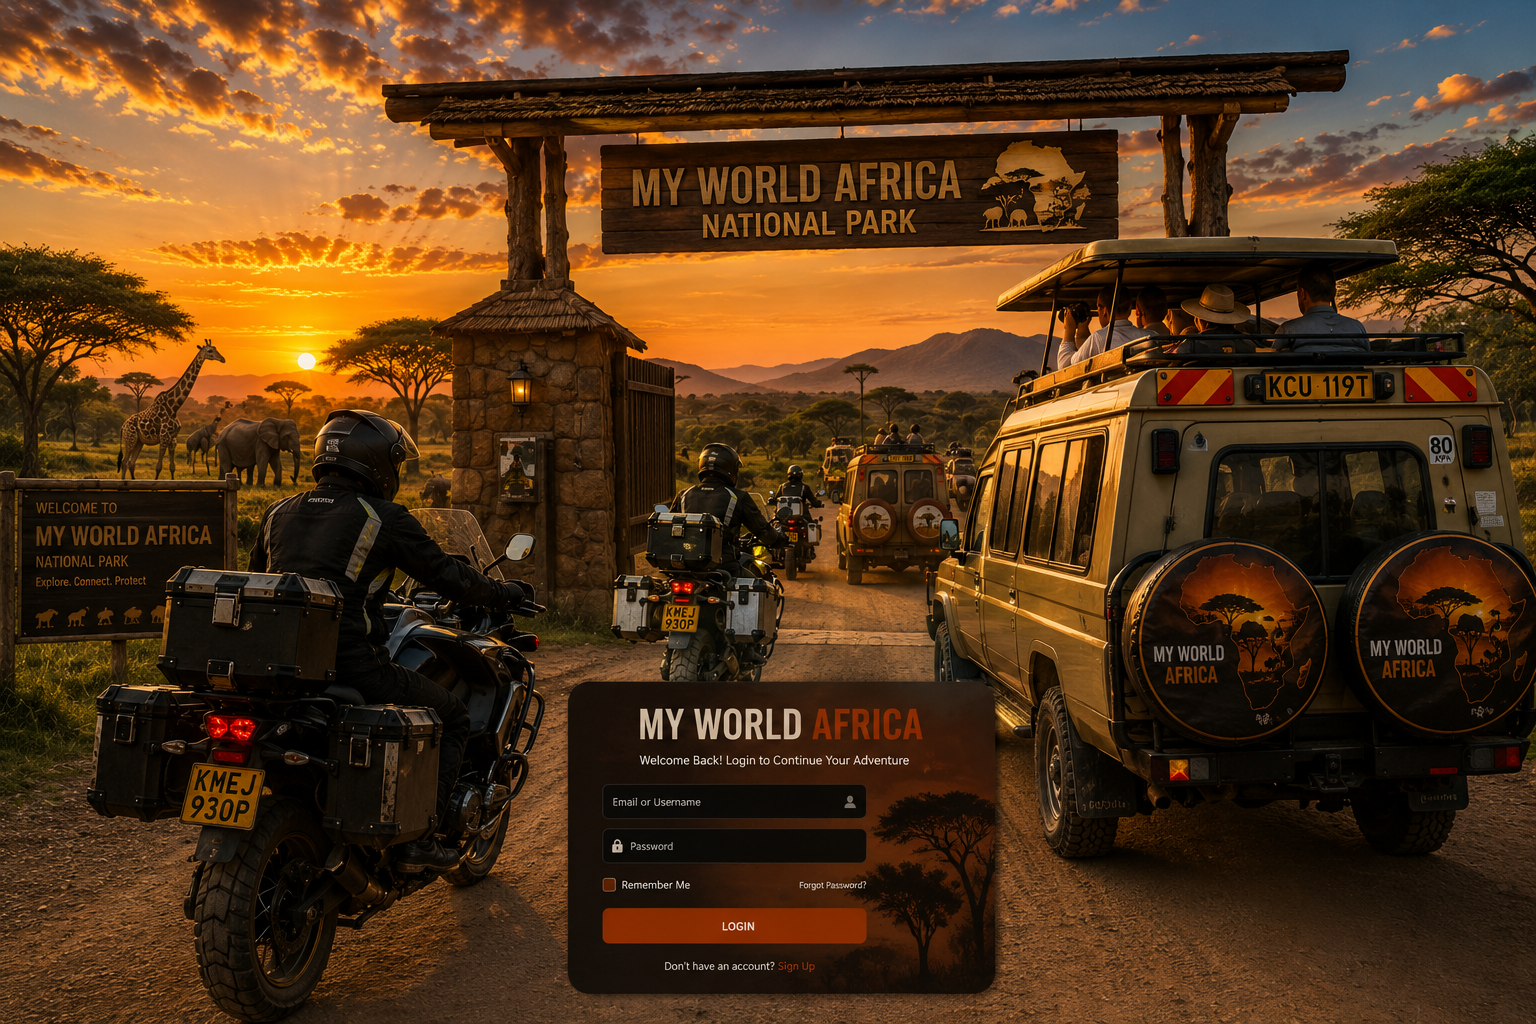
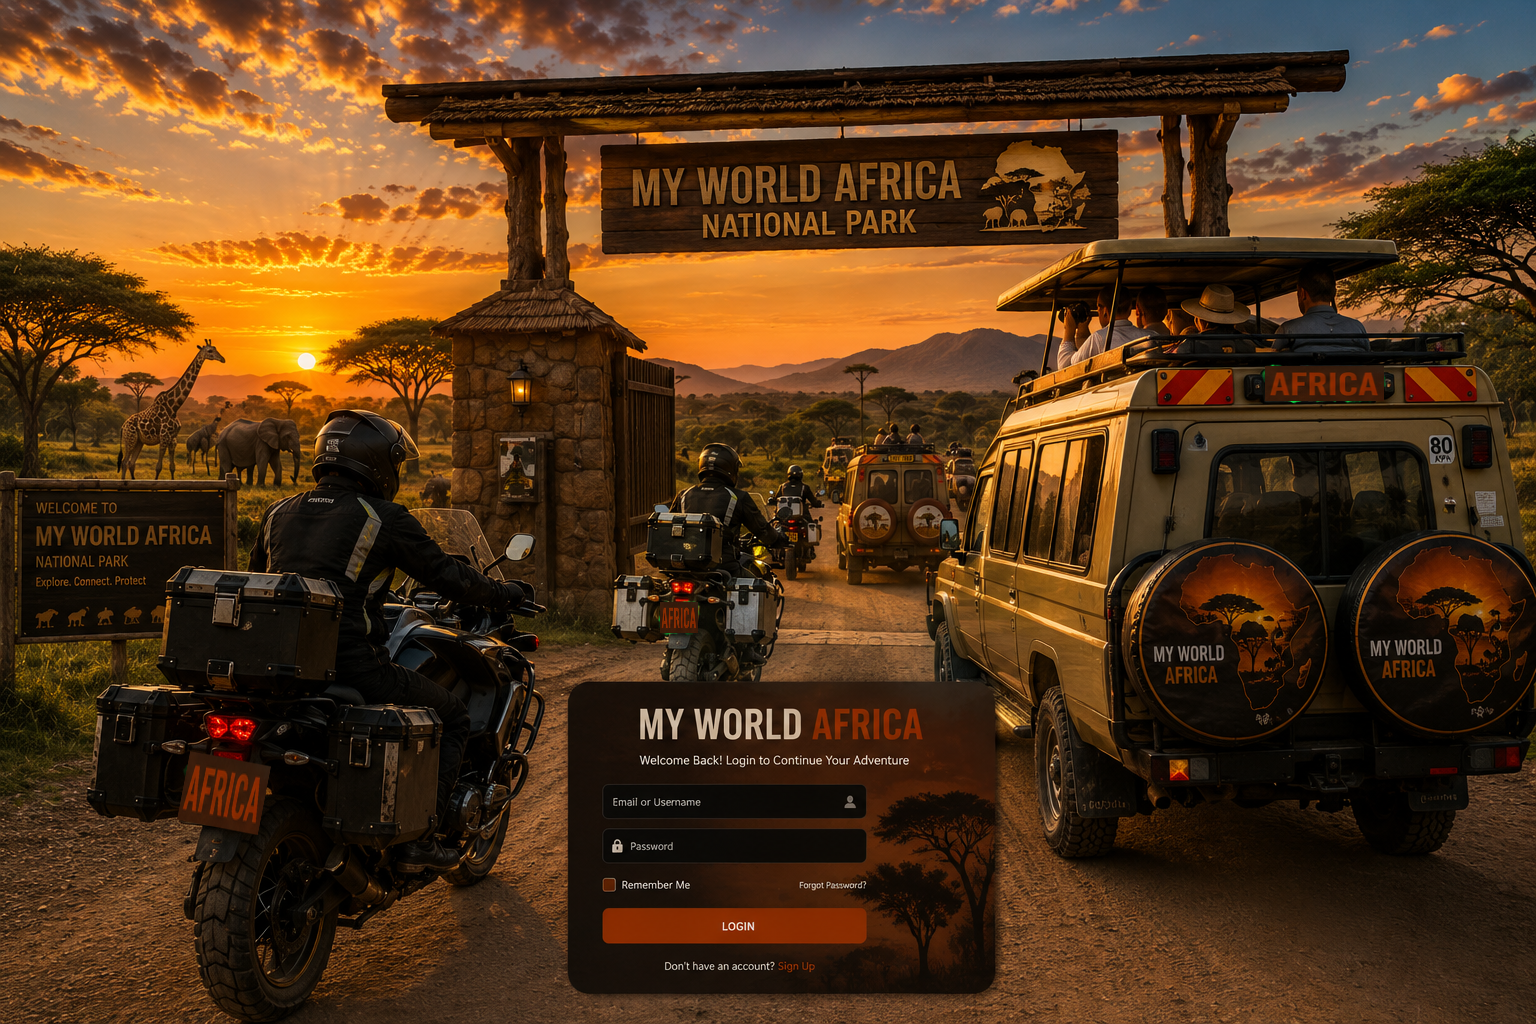
Upgrade: The Africa

Changed region(s): [[0.0938, 0.7188, 0.1875, 0.8125], [0.8125, 0.3438, 0.9062, 0.4062], [0.4062, 0.5938, 0.4688, 0.625]]

diff --git a/src/routes/index.tsx b/src/routes/index.tsx
@@ -62,15 +62,15 @@ function Landing() {
           </div>
 
           <div className="w-full max-w-5xl flex flex-col items-center text-center">
-            {/* BRANDING LOGO BLOCK */}
-            <div className="flex items-center justify-center gap-4 sm:gap-8 mb-12 transform hover:scale-105 transition-transform duration-500">
+            {/* BRANDING LOGO BLOCK - Improved responsiveness */}
+            <div className="flex flex-col sm:flex-row items-center justify-center gap-6 sm:gap-8 mb-10 sm:mb-14 transform hover:scale-105 transition-transform duration-500 w-full px-4">
               <img
                 src="/a (2).png"
                 alt="My World Africa Logo"
-                className="h-28 sm:h-44 md:h-60 lg:h-72 w-auto object-contain drop-shadow-2xl"
+                className="h-32 sm:h-44 md:h-60 lg:h-72 w-auto object-contain drop-shadow-2xl"
               />
-              <div className="w-1.5 sm:w-2 h-28 sm:h-44 md:h-60 lg:h-72 bg-accent rounded-full shadow-glow" />
-              <div className="flex flex-col items-start font-sans font-black leading-[0.85] text-4xl sm:text-6xl md:text-8xl lg:text-9xl tracking-tighter uppercase drop-shadow-2xl">
+              <div className="hidden sm:block w-1.5 sm:w-2 h-28 sm:h-44 md:h-60 lg:h-72 bg-accent rounded-full shadow-glow" />
+              <div className="flex flex-col items-center sm:items-start font-sans font-black leading-[0.85] text-4xl sm:text-6xl md:text-8xl lg:text-9xl tracking-tighter uppercase drop-shadow-2xl">
                 <div className="text-white">MY WORLD</div>
                 <div className="text-accent mt-2 sm:mt-4">AFRICA</div>
               </div>
@@ -81,11 +81,11 @@ function Landing() {
               From Cape to Cairo — 54 countries, one community
             </div>
 
-            <h1 className="font-display text-white text-3xl sm:text-5xl md:text-6xl font-bold leading-[1.1] max-w-3xl drop-shadow-2xl">
+            <h1 className="font-display text-white text-2xl sm:text-5xl md:text-6xl font-bold leading-[1.1] max-w-3xl drop-shadow-2xl px-2">
               Ride the road. <span className="text-gradient-warm">Own the story.</span>
             </h1>
 
-            <p className="mt-6 text-base sm:text-lg md:text-xl text-white/95 max-w-2xl leading-relaxed drop-shadow-lg font-medium">
+            <p className="mt-4 sm:mt-6 text-sm sm:text-lg md:text-xl text-white/95 max-w-2xl leading-relaxed drop-shadow-lg font-medium px-4">
               MyWorldAfrica is where African explorers, riders and drivers meet. Post
               shorts and vlogs from your journey, host meetups anywhere on the
               continent.
@@ -104,7 +104,7 @@ function Landing() {
               </Link>
             </div>
 
-            <div className="mt-12 sm:mt-16 grid grid-cols-2 sm:grid-cols-3 gap-8 sm:gap-12 w-full max-w-2xl justify-center">
+            <div className="mt-12 sm:mt-16 grid grid-cols-2 sm:grid-cols-3 gap-6 sm:gap-12 w-full max-w-2xl justify-center px-4">
               <Stat n="12K+" l="Explorers" />
               <Stat n="540+" l="Events hosted" />
               <Stat n="38" l="Countries" className="col-span-2 sm:col-span-1" />
@@ -114,21 +114,32 @@ function Landing() {
       </section>
 
       {/* TRIBES */}
-      <section className="mx-auto max-w-7xl px-6 py-24">
-        <div className="text-center max-w-2xl mx-auto mb-14">
-          <div className="text-xs uppercase tracking-[0.3em] text-primary font-semibold mb-3">
-            Three tribes · One road
-          </div>
-          <h2 className="text-4xl md:text-5xl font-bold">Find your people</h2>
-          <p className="mt-4 text-muted-foreground">
-            Whether you burn fuel on two wheels, four wheels, or two feet — there's a
-            tribe waiting on the other side of the horizon.
-          </p>
+      <section className="relative overflow-hidden py-24">
+        {/* Subtle Background Image - Increased visibility */}
+        <div className="absolute inset-0 opacity-20 pointer-events-none">
+          <img
+            src="/all.png"
+            alt="Background"
+            className="w-full h-full object-cover"
+          />
         </div>
-        <div className="grid gap-6 md:grid-cols-3">
-          <Tribe img={ridersImg} tag="Riders" title="Two wheels, endless dust" desc="From Honda Ace 125s to KTM Adventures — join weekend runs and cross-border rallies." />
-          <Tribe img={driversImg} tag="Drivers" title="Four wheels, open dunes" desc="4x4 convoys, offroad meets, and long-haul road trips across the continent." />
-          <Tribe img={explorersImg} tag="Explorers" title="Culture, food, stories" desc="Trekkers, foodies, photographers — the people who chase experiences." />
+
+        <div className="relative z-10 mx-auto max-w-7xl px-6">
+          <div className="text-center max-w-2xl mx-auto mb-14">
+            <div className="text-xs uppercase tracking-[0.3em] text-primary font-bold mb-3">
+              Three tribes · One road
+            </div>
+            <h2 className="text-4xl md:text-5xl font-bold">Find your people</h2>
+            <p className="mt-4 text-muted-foreground font-medium">
+              Whether you burn fuel on two wheels, four wheels, or two feet — there's a
+              tribe waiting on the other side of the horizon.
+            </p>
+          </div>
+          <div className="grid gap-6 md:grid-cols-3">
+            <Tribe img={ridersImg} tag="Riders" title="Two wheels, endless dust" desc="From Honda Ace 125s to KTM Adventures — join weekend runs and cross-border rallies." />
+            <Tribe img={driversImg} tag="Drivers" title="Four wheels, open dunes" desc="4x4 convoys, offroad meets, and long-haul road trips across the continent." />
+            <Tribe img={explorersImg} tag="Explorers" title="Culture, food, stories" desc="Trekkers, foodies, photographers — the people who chase experiences." />
+          </div>
         </div>
       </section>
 

diff --git a/src/components/SiteNav.tsx b/src/components/SiteNav.tsx
@@ -21,28 +21,28 @@ export function SiteNav() {
     <>
       <Link
         to="/"
-        className="flex items-center gap-2 hover:text-accent transition-colors"
+        className="hover:text-accent transition-colors"
         onClick={() => setIsMenuOpen(false)}
       >
-        <Home className="h-4 w-4 md:hidden" /> Home
+        Home
       </Link>
       <Link
         to="/feed"
-        className="flex items-center gap-2 hover:text-accent transition-colors"
+        className="hover:text-accent transition-colors"
         onClick={() => setIsMenuOpen(false)}
       >
         Feed
       </Link>
       <Link
         to="/events"
-        className="flex items-center gap-2 hover:text-accent transition-colors"
+        className="hover:text-accent transition-colors"
         onClick={() => setIsMenuOpen(false)}
       >
         Events
       </Link>
       <Link
         to="/events/create"
-        className="flex items-center gap-2 hover:text-accent transition-colors"
+        className="hover:text-accent transition-colors"
         onClick={() => setIsMenuOpen(false)}
       >
         Host
@@ -117,42 +117,57 @@ export function SiteNav() {
         </div>
       </div>
 
-      {/* MOBILE MENU FLOATING TILE */}
+      {/* MOBILE MENU FLOATING TILE - Centered perfectly */}
       {isMenuOpen && (
         <div
-          className="fixed inset-0 z-50 flex items-center justify-center p-6 bg-black/60 backdrop-blur-sm animate-in fade-in duration-300"
+          className="fixed inset-0 h-[100dvh] w-screen z-[100] flex items-center justify-center p-6 bg-black/80 backdrop-blur-md animate-in fade-in duration-300"
           onClick={() => setIsMenuOpen(false)}
         >
           <div
-            className="w-full max-w-xs bg-background border border-border shadow-2xl rounded-3xl p-8 flex flex-col items-center gap-6 animate-in zoom-in-95 duration-300"
+            className="relative w-full max-w-[320px] overflow-hidden border border-white/20 animate-rainbow-glow rounded-none p-10 flex flex-col items-center gap-8 animate-in zoom-in-95 duration-300 shadow-2xl"
             onClick={(e) => e.stopPropagation()}
           >
-            <div className="flex items-center gap-3 mb-4 scale-110">
-              <img src="/a (2).png" className="h-10 w-auto" alt="Logo" />
-              <div className="w-1 h-10 bg-accent rounded-full" />
-              <div className="font-black text-left leading-none uppercase">
-                <div className="text-xs">MY WORLD</div>
-                <div className="text-sm text-accent">AFRICA</div>
+            {/* Background Image for Tile */}
+            <div className="absolute inset-0 z-0">
+              <img
+                src="/auth 1.png"
+                alt="Background"
+                className="w-full h-full object-cover opacity-30"
+              />
+              <div className="absolute inset-0 bg-black/70" />
+            </div>
+
+            {/* Logo branding - Increased visibility */}
+            <div className="relative z-10 flex items-center justify-center gap-3 transform scale-125 mb-4">
+              <img
+                src="/a (2).png"
+                alt="My World Africa Logo"
+                className="h-12 w-auto object-contain"
+              />
+              <div className="w-1 h-12 bg-accent rounded-full shadow-[0_0_15px_rgba(255,165,0,0.5)]" />
+              <div className="flex flex-col items-start font-sans font-black leading-[0.85] text-lg tracking-tighter uppercase text-white">
+                <div className="text-white">MY WORLD</div>
+                <div className="text-accent mt-0.5">AFRICA</div>
               </div>
             </div>
 
-            <nav className="flex flex-col items-center gap-6 text-lg font-black uppercase tracking-widest w-full">
+            <nav className="relative z-10 flex flex-col items-center gap-6 text-xl font-black uppercase tracking-[0.2em] w-full mt-4 text-white">
               <NavLinks />
             </nav>
 
-            <div className="w-full h-px bg-border/50 my-2" />
+            <div className="relative z-10 w-full h-px bg-white/20 mt-2" />
 
             {user ? (
               <Button
                 variant="destructive"
-                className="w-full rounded-2xl h-12 font-bold"
+                className="relative z-10 w-full rounded-none h-14 font-black tracking-widest text-xs border border-white/10"
                 onClick={handleSignOut}
               >
                 <LogOut className="h-4 w-4 mr-2" /> SIGN OUT
               </Button>
             ) : (
-              <Link to="/auth" className="w-full" onClick={() => setIsMenuOpen(false)}>
-                <Button className="w-full bg-warm-gradient text-primary-foreground h-12 rounded-2xl font-black shadow-glow">
+              <Link to="/auth" className="relative z-10 w-full" onClick={() => setIsMenuOpen(false)}>
+                <Button className="w-full bg-warm-gradient text-primary-foreground h-14 rounded-none font-black tracking-widest text-xs shadow-glow">
                   JOIN THE TRIBE
                 </Button>
               </Link>

diff --git a/src/components/SiteFooter.tsx b/src/components/SiteFooter.tsx
@@ -13,19 +13,19 @@ export function SiteFooter() {
 
       <div className="relative z-10 mx-auto max-w-7xl px-6 py-16 grid gap-12 md:grid-cols-4">
         <div className="md:col-span-2">
-          <div className="flex items-center gap-3 sm:gap-4 mb-8 group">
+          <div className="flex flex-col sm:flex-row items-center sm:items-start gap-4 sm:gap-4 mb-8 group text-center sm:text-left">
             <img
               src="/a (2).png"
               alt="My World Africa Logo"
               className="h-16 sm:h-24 w-auto object-contain transition-transform duration-500 group-hover:scale-105"
             />
-            <div className="w-1.5 sm:w-2 h-16 sm:h-24 bg-accent rounded-full shadow-[0_0_20px_rgba(255,165,0,0.6)]" />
-            <div className="flex flex-col items-start font-sans font-black leading-[0.85] text-2xl sm:text-4xl tracking-tighter uppercase drop-shadow-2xl">
+            <div className="hidden sm:block w-1.5 sm:w-2 h-16 sm:h-24 bg-accent rounded-full shadow-[0_0_20px_rgba(255,165,0,0.6)]" />
+            <div className="flex flex-col items-center sm:items-start font-sans font-black leading-[0.85] text-2xl sm:text-4xl tracking-tighter uppercase drop-shadow-2xl">
               <div className="text-white">MY WORLD</div>
               <div className="text-accent mt-1">AFRICA</div>
             </div>
           </div>
-          <p className="mt-4 text-base text-white/80 max-w-sm leading-relaxed font-medium">
+          <p className="mt-4 text-base text-white/80 max-w-sm leading-relaxed font-medium text-center sm:text-left mx-auto sm:mx-0">
             The community-driven platform for African explorers, riders, and drivers.
             Share your journey. Host events. Live the road.
           </p>
@@ -65,8 +65,18 @@ export function SiteFooter() {
           </ul>
         </div>
       </div>
-      <div className="relative z-10 border-t border-white/10 py-8 text-center text-[10px] uppercase tracking-[0.4em] font-bold text-white/30">
-        © {new Date().getFullYear()} MyWorldAfrica.com — Made with red dust and open skies.
+      <div className="relative z-10 border-t border-white/10 py-8 text-center flex flex-col items-center gap-2">
+        <div className="text-[10px] uppercase tracking-[0.4em] font-bold text-white/30">
+          © {new Date().getFullYear()} MyWorldAfrica.com — Made with red dust and open skies.
+        </div>
+        <a
+          href="https://onlineworldkenya.vercel.app"
+          target="_blank"
+          rel="noopener noreferrer"
+          className="text-[10px] text-white/40 hover:text-accent transition-colors italic tracking-widest"
+        >
+          powered by online world kenya
+        </a>
       </div>
     </footer>
   );

diff --git a/src/routes/auth.tsx b/src/routes/auth.tsx
@@ -125,10 +125,20 @@ function Auth() {
           style={{ backgroundImage: 'linear-gradient(rgba(0,0,0,0.85), rgba(0,0,0,0.85)), url("/auth%201.png")' }}
         >
           <div className="text-center mb-6 sm:mb-8">
-            <h1 className="flex flex-col items-center leading-[0.9] font-display font-black uppercase tracking-tighter italic">
-              <span className="text-3xl sm:text-4xl md:text-5xl text-white">MY WORLD</span>
-              <span className="text-4xl sm:text-5xl md:text-6xl text-[#c15a2b]">AFRICA</span>
-            </h1>
+            {/* BRANDING LOGO BLOCK - Unified Design */}
+            <div className="flex flex-col sm:flex-row items-center justify-center gap-4 sm:gap-6 mb-8 transform hover:scale-105 transition-transform duration-500 w-full">
+              <img
+                src="/a (2).png"
+                alt="My World Africa Logo"
+                className="h-20 sm:h-28 w-auto object-contain drop-shadow-2xl"
+              />
+              <div className="hidden sm:block w-1 h-20 sm:h-28 bg-accent rounded-full shadow-glow" />
+              <div className="flex flex-col items-center sm:items-start font-sans font-black leading-[0.85] text-2xl sm:text-4xl tracking-tighter uppercase drop-shadow-2xl">
+                <div className="text-white">MY WORLD</div>
+                <div className="text-accent mt-1 sm:mt-2">AFRICA</div>
+              </div>
+            </div>
+
             <p className="mt-4 sm:mt-6 text-white text-xs sm:text-sm md:text-base font-normal opacity-90">
               {mode === "signin"
                 ? "Welcome Back! Login to Continue Your Adventure"
